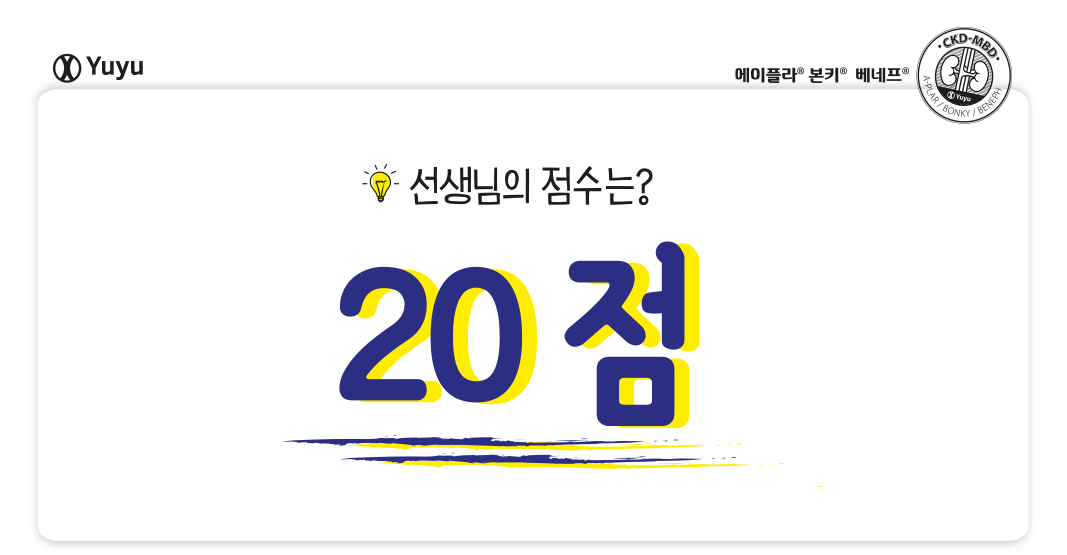
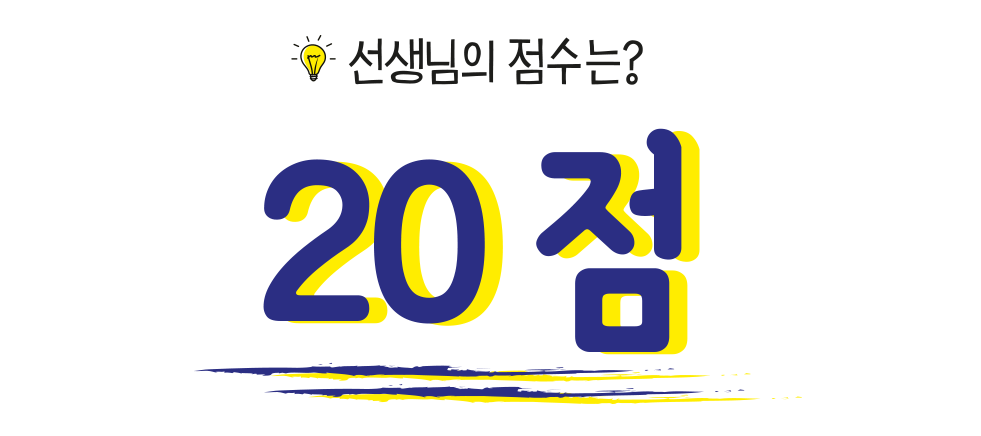
요구사항 처리

Changed region(s): [[0.2141, 0.2982, 0.7645, 0.9243], [0.0306, 0.0298, 0.948, 0.2385], [0.0612, 0.9541, 0.948, 0.9839]]

diff --git a/src/components/Information.vue b/src/components/Information.vue
@@ -1,19 +1,19 @@
 <template>
   <div class="information">
     <div class="content">
-      <div class="rect"><img src="http://www.emds.co.kr/img/info-top.png"/></div>
-        <div class="content_background">
+      <div class="rect"><img :src="common_top_image"/></div>
+        <div class="content_background" v-bind:style="{backgroundImage:'url('+common_cen_image+')'}">
             <ul>
               <li><span>성명 :</span> <input type="text" name="name" v-model="name" autocomplete="off" placeholder="성명을 입력하세요"></li>
               <li><span>병원명 :</span> <input type="text" name="hospital_name" v-model="hospital_name" autocomplete="off" placeholder="병원명을 입력하세요"></li>
               <li><span>진료과 :</span> <input type="text" name="department" v-model="department" autocomplete="off" placeholder="진료과를 입력하세요"></li>
               <li><span>휴대폰번호 :</span> <input type="text" name="hpno" v-model="hpno" autocomplete="off" placeholder="휴대폰번호를 입력하세요"></li>
               <li><span>담당자 :</span> <input type="text" name="charge_name" v-model="charge_name" autocomplete="off" placeholder="담당자를 입력하세요"></li>
+              <li v-if="cate.pharm_view_yn == 'Y'"><span>약국명 :</span> <input type="text" name="pharm_name" v-model="pharm_name" autocomplete="off" placeholder="약국명을 입력하세요"></li>
+              <li v-if="cate.addr_gu_view_yn == 'Y'"><span>지역(구) :</span> <input type="text" name="addr_gu" v-model="addr_gu" autocomplete="off" placeholder="지역(구)를 입력하세요"></li>
               <li class="li-agreement">
                 개인정보 수집 및 이용동의
-                <div class="agreement">
-                  입력하신 선생님의 정보는 유유제약의 마케팅 목적과 메디컴에서의 모바일 쿠폰 발송<br> 목적으로 활용됩니다. 
-                  위 목적 이외 선생님의 개인정보를 제 3자에게 제공하지 않습니다.
+                <div class="agreement" v-html="fnRtnDecode(cate.information_content)">
                 </div>
                 <div class="agreement-check">
                   <label for="agree"><input type="checkbox" id="agree" v-model="agree" name="agree"> 개인정보 수집 및 이용에 동의합니다.</label>
@@ -22,10 +22,10 @@
             </ul>
         </div>
         <div class="rect">
-          <img src="http://www.emds.co.kr/img/info-bottom.png"/>
+          <img :src="common_bottom_image"/>
         </div>
     </div>
-    <div class="relative mt">
+    <div class="relative">
       <div class="ab-top"><img src="http://www.emds.co.kr/img/yuquiz.png" alt="Yu Quiz?" width="15%"></div>
       <img class="ab-right click" src="http://www.emds.co.kr/img/yes.png" v-on:click="fnYes" width="10%" alt="YES">
     </div>
@@ -39,15 +39,22 @@ export default {
   },
   data() {
     return {
-      
+      url: '',
       name: '',
       hospital_name: '',
       department: '',
       hpno: '',
       charge_name: '',
+      pharm_name: '',
+      addr_gu: '',
       present: '',
       score: '',
-      agree: false
+      agree: false,
+      
+      cate: {},
+      common_top_image: '',
+      common_cen_image: '',
+      common_bottom_image: '',
       /*
       name: '테스트',
       hospital_name: '병원명',
@@ -61,6 +68,12 @@ export default {
     }
   },
   mounted() {
+    this.url = this.$store.state.url
+    this.cate = this.$store.state.cate
+
+    this.common_top_image = this.url+'file/cate/'+this.cate.common_top_image
+    this.common_cen_image = this.url+'file/cate/'+this.cate.common_cen_image
+    this.common_bottom_image = this.url+'file/cate/'+this.cate.common_bottom_image
   },
   methods: {
     fnYes() {
@@ -84,6 +97,14 @@ export default {
         this.$emit('message', '담당자를 입력하세요')
         return
       }
+      if(this.pharm_name == '' && this.cate.pharm_view_yn == 'Y') {
+        this.$emit('message', '약국명을 입력하세요')
+        return
+      }
+      if(this.addr_gu == '' && this.cate.addr_gu_view_yn == 'Y') {
+        this.$emit('message', '지역(구)를 입력하세요')
+        return
+      }
       if(!this.agree) {
         this.$emit('message', '개인정보 수집 및 이용에 동의하세요')
         return
@@ -95,8 +116,13 @@ export default {
       this.$store.state.answer.department = this.department
       this.$store.state.answer.hpno = this.hpno
       this.$store.state.answer.charge_name = this.charge_name
+      this.$store.state.answer.pharm_name = this.pharm_name
+      this.$store.state.answer.addr_gu = this.addr_gu
 
       this.$emit('quizStart')
+    },
+    fnRtnDecode(val) {
+      return decodeURI(val).replace("\n", "<br />").replace(/\+/gi, " ")
     }
   }
 }
@@ -111,14 +137,14 @@ export default {
   .content_background {
     margin-top: -5px;
     padding: 5px 100px;
-    background-image:url('http://www.emds.co.kr/img/info-cen.png');
     background-repeat: repeat-y;
     background-size: 100%;
     ul {
       margin: 0; padding: 0;
       li {
-        line-height: 2.5rem;
+        line-height: 2rem;
         span {
+          font-size: 0.9rem;
           width: 8rem;
           display: inline-block;
           vertical-align: middle;
@@ -132,7 +158,7 @@ export default {
           background-color: #d6dce5;
           color: #2b292c;
           padding-left: 1rem;
-          font-size: 0.9rem;
+          font-size: 0.8rem;
           font-weight: bold;
           font-family: 'Nanum Gothic', sans-serif;
         }
@@ -143,16 +169,17 @@ export default {
           background-color: #e7e7e8;
           color: #383739;
           text-align: center;
-          font-size: 0.8rem;
+          font-size: 0.7rem;
           line-height: 1rem;
         }
         .agreement-check {
-          font-size: 0.8rem;
+          font-size: 0.7rem;
           color: #5b595b;
           input {vertical-align: middle; line-height: 1rem;}
         }
 
         &.li-agreement {
+          font-size: 0.78rem;
           line-height: 2rem;
         }
       }

diff --git a/src/views/Common.vue b/src/views/Common.vue
@@ -53,7 +53,7 @@
               :cate="cate"
               v-if="viewClose" />
        </transition>
-       <div class="yuyu"><img src="http://www.emds.co.kr/img/yuyu.png" alt="YES" width="70%"></div>
+       <div class="yuyu"><img :src="left_down_image" alt="YES" width="70%"></div>
     </div>
 
     <audio
@@ -112,24 +112,31 @@ export default {
       question: {},
       nowNum: 0,
       common_back_image: '',
+      left_down_image: '',
 
       loadingbar: false,
       alertMessage: ''
     }
   },
   mounted() {
+    this.$store.state.answer.score = 0
+    this.point = this.$store.state.point
+
     var audio = document.getElementById("audio-player");
-    audio.pause();
+    audio.play();
 
     this.url = this.$store.state.url
     this.point = this.$store.state.point
     this.cate = this.$store.state.cate
 
-    this.common_back_image = this.url+'file/cate/'+this.$store.state.cate.common_back_image
+    this.common_back_image = this.url+'file/cate/'+this.cate.common_back_image
+    this.left_down_image = this.url+'file/cate/'+this.cate.left_bottom_image
     document.querySelector('body').style.backgroundImage = "url("+this.common_back_image+")"
     document.querySelector('body').style.backgroundSize = "100% 100%"
     //document.getElementsByTagName('body').style.backgroundImage = "url("+this.common_back_image+")"
     
+    
+    //this.viewPoint = true;
     //this.viewGift = true;
     //this.viewClose = true;
     this.viewOpening = true;
@@ -149,13 +156,12 @@ export default {
       }, 1000)
     },
     fnQuizResult(obj) {
-      console.log(obj)
       this.$store.state.reply.push(obj)
 
       this.viewQuestion= false
 
-      if(obj.correct_yn) this.$store.state.answer.score += 20
-
+      if(obj.correct_yn) this.$store.state.answer.score += Number(this.point)
+      
       if(obj.correct_yn) setTimeout(() => {this.viewQuestionRight = true}, 1000)
       else setTimeout(() => {this.viewQuestionWrong = true}, 1000)
     },
@@ -197,13 +203,13 @@ export default {
     position: relative;
     padding: 0;
     text-align: center;
-    min-height: 560px;
+    min-height: 500px;
     
     .box {
       display: inline-block;
     }
 
-    .yuyu {position: absolute; bottom: 0; text-align: left; padding-left: 2rem;}
+    .yuyu {position: absolute; top: 500px; text-align: left; padding-left: 2rem;}
   }
 }
 

diff --git a/src/components/Point.vue b/src/components/Point.vue
@@ -1,8 +1,16 @@
 <template>
   <div class="point">
     <div class="content">
-      <img :src="image" width="80%" alt="이미지">
+      <div class="rect"><img :src="common_top_image"/></div>
+        <div class="content_background" v-bind:style="{backgroundImage:'url('+common_cen_image+')'}">
+            <img src="http://www.emds.co.kr/img/your_point.png" alt="">
+            {{point}}
+        </div>
+        <div class="rect">
+          <img :src="common_bottom_image"/>
+        </div>
     </div>
+      
     <div class="relative mt">
       <img class="ab-right click" src="../assets/next.png" v-on:click="fnNext" width="15%" alt="NEXT">
     </div>
@@ -18,12 +26,26 @@ export default {
   },
   data() {
     return {
+      url: '',
       image: '',
+      point: 0,
+
+      cate: {},
+      common_top_image: '',
+      common_cen_image: '',
+      common_bottom_image: '',
     }
   },
   mounted() {
     this.url = this.$store.state.url
-    this.image = require('../assets/point-'+this.$store.state.answer.score+'.png')
+    this.cate = this.$store.state.cate
+
+    this.common_top_image = this.url+'file/cate/'+this.cate.common_top_image
+    this.common_cen_image = this.url+'file/cate/'+this.cate.common_cen_image
+    this.common_bottom_image = this.url+'file/cate/'+this.cate.common_bottom_image
+
+    //this.image = require('../assets/point-'+this.$store.state.answer.score+'.png')
+    this.point = this.$store.state.answer.score
   },
   methods: {
     fnNext() {
@@ -35,6 +57,15 @@ export default {
 <style lang="scss" scoped>
 .point {
   div.content {
+    .content_background {
+      margin-top: -5px;
+      background-repeat: repeat-y;
+      background-size: 100%;
+      font-size: 10rem;
+      padding: 4rem 1rem;
+      font-weight: bold;
+      color: #666;
+    }
   }
 
   .button-wrap {

diff --git a/src/store/index.js b/src/store/index.js
@@ -18,6 +18,8 @@ export default new Vuex.Store({
       department: '',
       hpno: '',
       charge_name: '',
+      pharm_name: '',
+      addr_gu: '',
       present: '',
       score: 0,
       reply: []
@@ -58,6 +60,7 @@ export default new Vuex.Store({
             .then(response => {
                 if(response.question) {
                   context.state.arrQuestion = response.question
+
                     return response.question
                 } else {
                     return response

diff --git a/src/components/Gift.vue b/src/components/Gift.vue
@@ -26,7 +26,7 @@
             :item="item[3]"/>            
     </div>
     <div class="relative mt">
-      <img class="ab-right click" src="../assets/next.png" v-on:click="fnNext" width="15%" alt="NEXT">
+      <img class="ab-right click" src="../assets/next.png" v-on:click="fnNext" width="10%" alt="NEXT">
     </div>
   </div>
 </template>

diff --git a/src/components/Question.vue b/src/components/Question.vue
@@ -94,7 +94,7 @@ export default {
 
       this.count_image = require('../assets/count_'+(this.count--)+'.png')
       
-      //setTimeout(this.fnCount, 1500)
+      setTimeout(this.fnCount, 1500)
     },
     fnSelect(obj) {
       if(this.reply_type == 'one') {

diff --git a/src/components/ItemGift.vue b/src/components/ItemGift.vue
@@ -43,8 +43,8 @@ export default {
 </script>
 <style lang="scss" scoped>
 .item {
-  line-height: 2rem;
-  font-size: 2rem;
+  line-height: 1.2rem;
+  font-size: 1.2rem;
    
   * {vertical-align: middle;}
 }

diff --git a/src/App.vue b/src/App.vue
@@ -24,5 +24,5 @@ body {
 
 .click {cursor: pointer;}
 .relative {position: relative}
-.mt {margin-top: 1rem;}
+.mt {margin-top: 0;}
 </style>
